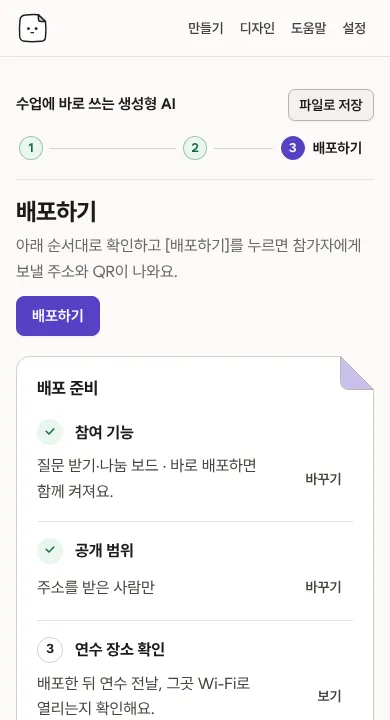
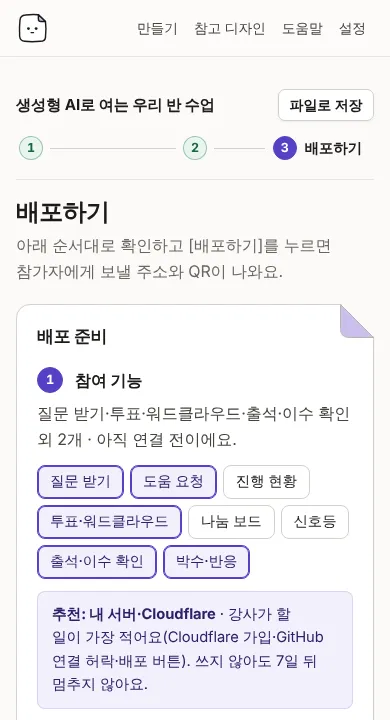
목록 이름은 제목 안 꾸밈 사이에 빈칸, 이름 바꾸기는 번호 꾸밈을 지킴, 고친 글의 스크립트 내용은 버림, 옮긴 뒤 초점은 같은 단추, 도움말 화면 그림을 새 흐름으로
Claude-Session: https://claude.ai/code/session_01HqP3sDeio7vDaD8gojGxBH

diff --git a/app/src/pages/steps/Studio.jsx b/app/src/pages/steps/Studio.jsx
@@ -134,7 +134,8 @@ function SectionsPanel({ sections, locked, onShow, onMove, onHide, onRemove, onR
   const [drag, setDrag] = useState(null); const [over, setOver] = useState(null);
   const [rename, setRename] = useState(null); const [del, setDel] = useState(null);
   const listRef = useRef();
-  const focusAt = (i) => setTimeout(() => listRef.current?.querySelectorAll('.sec2-name')[i]?.focus(), 60);
+  /** 옮긴 뒤 초점: 옮긴 섹션의 같은 단추(↑·↓를 이어 누를 수 있게). 그 단추가 꺼졌으면(맨 위·맨 아래) 이름 칸 */
+  const focusAt = (i, dir = '') => setTimeout(() => { const li = listRef.current?.querySelectorAll('.sec2')[i]; const b = dir && li?.querySelector(`button[aria-label$="${dir}"]:not([disabled])`); (b || li?.querySelector('.sec2-name'))?.focus(); }, 60);
   return (
     <div class="stack">
       <div class="sec-tools"><p class="small muted">섹션 {sections.length}개 · 끌어서 순서를 바꿔요.</p>
@@ -153,8 +154,8 @@ function SectionsPanel({ sections, locked, onShow, onMove, onHide, onRemove, onR
               <button class="btn btn-sm btn-primary">바꾸기</button></form>
               : <button type="button" class="sec2-name" onClick={() => onShow(s.id)} title="미리보기에서 보기"><span class="ttl">{s.name}</span><small>{[s.hidden ? '숨김' : '', s.steps ? `실습 ${s.steps}단계` : '', ...s.kits.map((k) => KIT_KO[k] || k)].filter(Boolean).join(' · ')}</small></button>}
             <span class="sec2-acts">
-              <button type="button" class="icon-btn" disabled={locked || i === 0} aria-label={`${s.name} 위로`} title="위로" onClick={() => { onMove(s.id, i - 1); focusAt(i - 1); }}>↑</button>
-              <button type="button" class="icon-btn" disabled={locked || i === sections.length - 1} aria-label={`${s.name} 아래로`} title="아래로" onClick={() => { onMove(s.id, i + 1); focusAt(i + 1); }}>↓</button>
+              <button type="button" class="icon-btn" disabled={locked || i === 0} aria-label={`${s.name} 위로`} title="위로" onClick={() => { onMove(s.id, i - 1); focusAt(i - 1, '위로'); }}>↑</button>
+              <button type="button" class="icon-btn" disabled={locked || i === sections.length - 1} aria-label={`${s.name} 아래로`} title="아래로" onClick={() => { onMove(s.id, i + 1); focusAt(i + 1, '아래로'); }}>↓</button>
               <details class="sec2-more"><summary class="icon-btn" aria-label={`${s.name} 더 보기`} title="더 보기">…</summary>
                 <div class="sec2-menu">
                   <button type="button" class="btn btn-sm btn-quiet" disabled={locked} onClick={(e) => { e.currentTarget.closest('details').open = false; setRename(s.id); }}>이름 바꾸기</button>

diff --git a/app/src/lib/site-doc.js b/app/src/lib/site-doc.js
@@ -15,8 +15,16 @@ export function topSections(doc) {
 }
 const HEAD = 'h1,h2,h3,h4';
 /** 섹션 이름: data-title → 첫 제목 → aria-label */
+/** 요소 글을 사람 눈에 보이는 대로(요소 사이에 빈칸: <span>02</span>생성형 → '02 생성형') */
+function words(el) {
+  if (!el) return '';
+  const out = [];
+  const walk = (n) => { for (const c of n.childNodes) { if (c.nodeType === 3) out.push(c.textContent); else if (c.nodeType === 1 && !c.matches('script,style,[aria-hidden="true"]')) { out.push(' '); walk(c); out.push(' '); } } };
+  walk(el);
+  return out.join('').replace(/\s+/g, ' ').trim();
+}
 export function sectionName(s, i = 0) {
-  const t = s.getAttribute('data-title') || s.querySelector(HEAD)?.textContent || s.getAttribute('aria-label') || '';
+  const t = s.getAttribute('data-title') || words(s.querySelector(HEAD)) || s.getAttribute('aria-label') || '';
   return t.replace(/\s+/g, ' ').trim().slice(0, 60) || `섹션 ${i + 1}`;
 }
 
@@ -84,7 +92,17 @@ export function renameSection(html, id, name) {
     const s = byId(doc, id); if (!s) return false;
     const old = sectionName(s);
     const h = s.querySelector(HEAD);
-    if (h && h.textContent.replace(/\s+/g, ' ').trim() === old) h.textContent = v;
+    if (h && words(h) === old) {
+      if (!h.children.length) h.textContent = v;
+      else {
+        // 제목 안에 꾸밈(번호 <span> 등)이 있으면 그대로 두고 가장 긴 글 조각만 바꿈(번호를 그대로 적었으면 뗌)
+        const texts = [...h.childNodes].filter((n) => n.nodeType === 3 && n.textContent.trim());
+        const main = texts.sort((a, b) => b.textContent.length - a.textContent.length)[0];
+        const keep = [...h.children].map((c) => words(c)).filter(Boolean);
+        let rest = v; for (const k of keep) if (rest.startsWith(k)) rest = rest.slice(k.length).trim();
+        if (main) main.textContent = rest; else h.textContent = v;
+      }
+    }
     if (s.hasAttribute('data-title') || !h) s.setAttribute('data-title', v);
     navLinks(doc, s.id).forEach((a) => { if (a.children.length === 0) a.textContent = v; });
     return true;
@@ -129,6 +147,7 @@ export function cleanInline(raw) {
     for (const c of [...el.childNodes]) {
       if (c.nodeType === 8) { c.remove(); continue; }
       if (c.nodeType !== 1) continue;
+      if (/^(SCRIPT|STYLE|IFRAME|OBJECT|EMBED|TEMPLATE|NOSCRIPT|SVG|MATH)$/i.test(c.tagName)) { c.remove(); continue; }
       if (c.tagName === 'DIV' || c.tagName === 'P') { c.before(...c.childNodes); c.before(document.createElement('br')); c.remove(); continue; }
       if (!OK_TAGS.has(c.tagName)) { c.replaceWith(...c.childNodes); continue; }
       for (const a of [...c.attributes]) {

diff --git a/app/src/pages/Help.jsx b/app/src/pages/Help.jsx
@@ -143,7 +143,7 @@ const BODY = {
   </>,
   live: <>
     <h1 tabIndex={-1}>참여 기능 연결</h1>
-    <Shot name="live" alt="참여 기능 탭: 질문 받기, 투표, 나눔 보드 같은 기능 목록" />
+    <Shot name="live" alt="배포하기의 참여 기능 줄: 켤 기능과 연결 방법(내 서버·구글 시트·Supabase)" />
     <p>질문·도움 요청·진행 현황·투표·나눔 보드·출석·만족도 조사는 '연결'이 있어야 동작해요.</p><p>기록은 강사님 계정에만 쌓여요. 운영자는 볼 수 없어요.</p>
     <p>배포하기 화면 체크리스트의 첫 줄에서 켤 기능을 누르고 연결해요. 연결한 뒤 배포하면 끝나요.</p>
     <ul><li><b>Cloudflare 내 서버(추천)</b>: 버튼 하나로 내 계정에 서버를 만들어요(GitHub 연결 허락 필요). 할 일이 가장 적고, 한 번 만들면 다음 연수부터 이 기기에서 저절로 연결돼요. 관리자 키는 앱이 만들어 줘요.</li>
